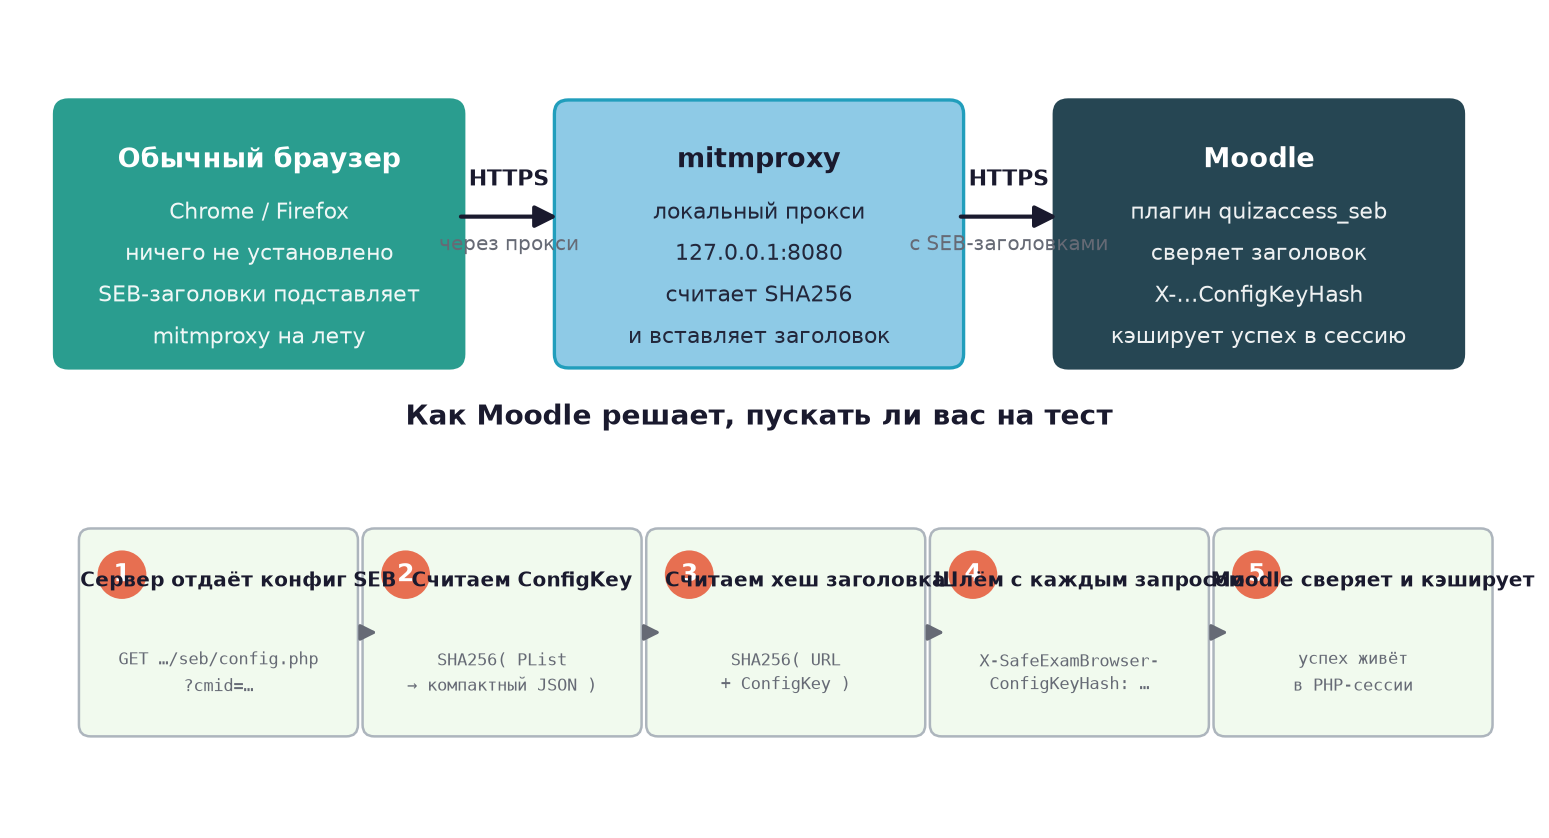
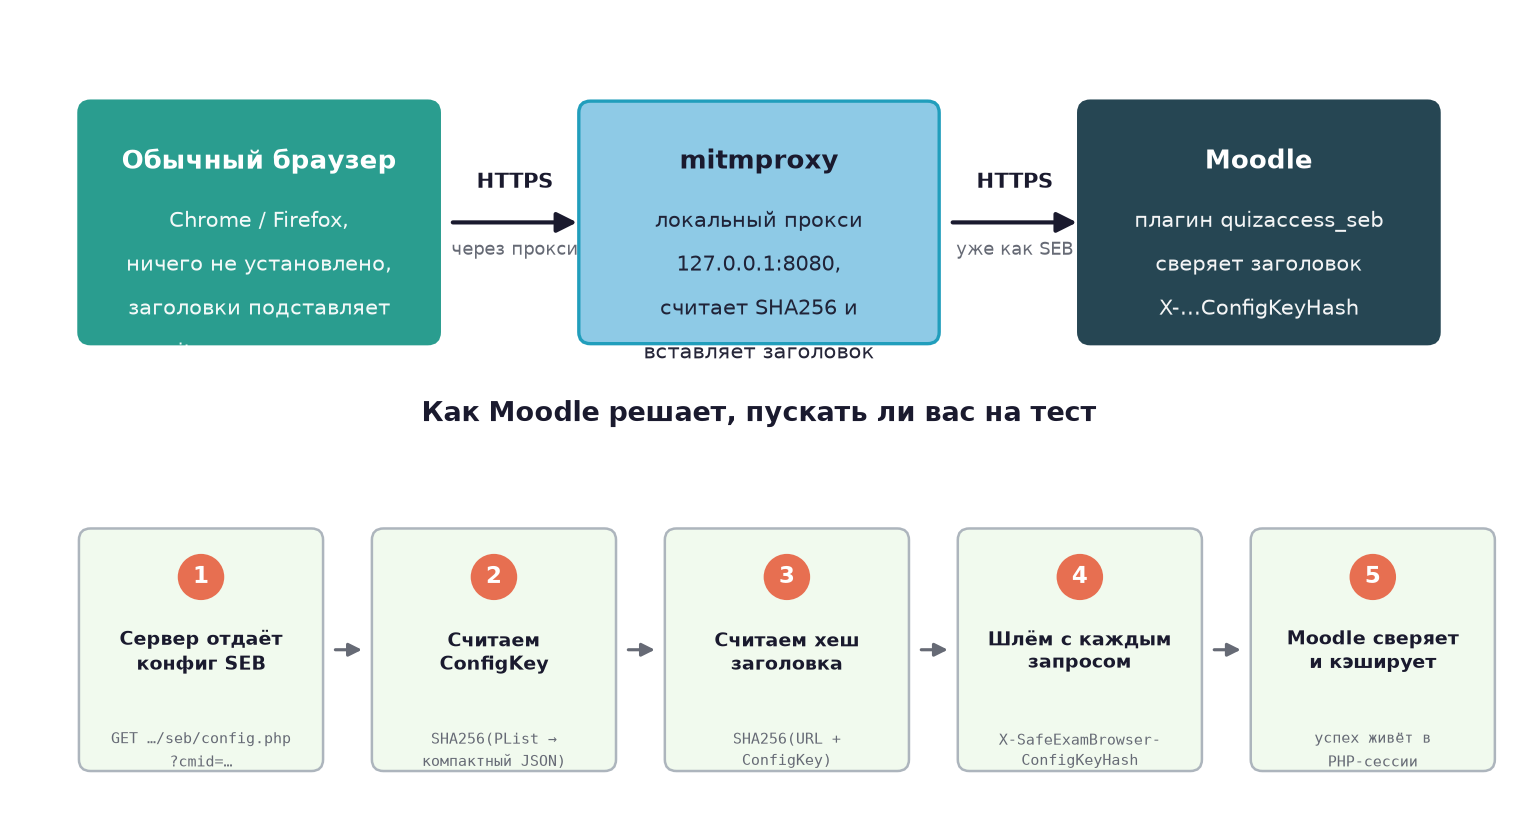
docs: redraw habr figures (fix overlapping text and arrows)

diff --git a/docs/habr/fig1_protocol.py b/docs/habr/fig1_protocol.py
@@ -1,7 +1,7 @@
 import matplotlib
 matplotlib.use("Agg")
 import matplotlib.pyplot as plt
-from matplotlib.patches import FancyBboxPatch, FancyArrowPatch
+from matplotlib.patches import FancyBboxPatch, FancyArrowPatch, Circle
 
 W, H = 12.8, 7.0
 fig, ax = plt.subplots(figsize=(W, H), dpi=150)
@@ -9,66 +9,63 @@ ax.set_xlim(0, 128)
 ax.set_ylim(0, 70)
 ax.axis("off")
 
-INK = "#1a1a2e"
-MUT = "#666a75"
-SEB = "#e76f51"
-MOODLE = "#264653"
-CLIENT = "#2a9d8f"
-BG = "#ffffff"
+INK, MUT = "#1a1a2e", "#666a75"
+SEB, CLIENT, BG = "#e76f51", "#2a9d8f", "#ffffff"
 
-def box(x, y, w, h, fc, ec, title, lines=(), fs=11.5, tfs=13, tc="white"):
+
+def box(x, y, w, h, fc, ec, tc, title, lines, fs=10, tfs=12.5):
     ax.add_patch(FancyBboxPatch((x, y), w, h,
-                 boxstyle="round,pad=0.6,rounding_size=1.2",
+                 boxstyle="round,pad=0.5,rounding_size=1.0",
                  fc=fc, ec=ec, lw=1.6))
-    ax.text(x + w/2, y + h - 3.4, title, ha="center", va="top",
+    ax.text(x + w/2, y + h - 3.6, title, ha="center", va="top",
             fontsize=tfs, fontweight="bold", color=tc)
     for i, ln in enumerate(lines):
-        ax.text(x + w/2, y + h - 8.2 - i*3.6, ln, ha="center", va="top",
-                fontsize=fs, color=tc, alpha=0.93)
+        ax.text(x + w/2, y + h - 9.0 - i*3.8, ln, ha="center", va="top",
+                fontsize=fs, color=tc, alpha=0.95)
 
-box(4, 40, 34, 22, CLIENT, CLIENT, "Обычный браузер",
-    ("Chrome / Firefox", "ничего не установлено", "SEB-заголовки подставляет", "mitmproxy на лету"), fs=10.5)
-box(47, 40, 34, 22, "#8ecae6", "#219ebc", "mitmproxy",
-    ("локальный прокси", "127.0.0.1:8080", "считает SHA256", "и вставляет заголовок"), fs=10.5, tc=INK)
-box(90, 40, 34, 22, MOODLE, MOODLE, "Moodle",
-    ("плагин quizaccess_seb", "сверяет заголовок", "X-…ConfigKeyHash", "кэширует успех в сессию"), fs=10.5)
 
-for x0, x1, label, sub in [
-    (38, 47, "HTTPS", "через прокси"),
-    (81, 90, "HTTPS", "с SEB-заголовками"),
-]:
-    ax.add_patch(FancyArrowPatch((x0, 52.5), (x1, 52.5),
-                 arrowstyle="-|>", mutation_scale=22, lw=2, color=INK))
-    ax.text((x0+x1)/2, 55.2, label, ha="center", fontsize=10.5, fontweight="bold", color=INK)
-    ax.text((x0+x1)/2, 49.6, sub, ha="center", fontsize=9.5, color=MUT)
+# ---- three actors: w=30, gaps ~13 units ----
+box(6, 42, 30, 20, CLIENT, CLIENT, "white", "Обычный браузер",
+    ("Chrome / Firefox,", "ничего не установлено,", "заголовки подставляет", "mitmproxy на лету"))
+box(49, 42, 30, 20, "#8ecae6", "#219ebc", INK, "mitmproxy",
+    ("локальный прокси", "127.0.0.1:8080,", "считает SHA256 и", "вставляет заголовок"))
+box(92, 42, 30, 20, "#264653", "#264653", "white", "Moodle",
+    ("плагин quizaccess_seb", "сверяет заголовок", "X-…ConfigKeyHash", "и кэширует успех в сессию"))
 
-ax.text(64, 34.5, "Как Moodle решает, пускать ли вас на тест", ha="center",
-        fontsize=13.5, fontweight="bold", color=INK)
+for x0, x1, label, sub in [(37.3, 48.7, "HTTPS", "через прокси"),
+                           (80.3, 91.7, "HTTPS", "уже как SEB")]:
+    ax.add_patch(FancyArrowPatch((x0, 52), (x1, 52),
+                 arrowstyle="-|>", mutation_scale=20, lw=2, color=INK))
+    ax.text((x0+x1)/2, 55.0, label, ha="center", fontsize=10, fontweight="bold", color=INK)
+    ax.text((x0+x1)/2, 49.2, sub, ha="center", fontsize=8.5, color=MUT)
 
+ax.text(64, 34.8, "Как Moodle решает, пускать ли вас на тест", ha="center",
+        fontsize=13, fontweight="bold", color=INK)
+
+# ---- five steps: w=20, spacing 25.2, clearance 4.2 ----
 steps = [
-    ("1", "Сервер отдаёт конфиг SEB", "GET …/seb/config.php\n?cmid=…"),
-    ("2", "Считаем ConfigKey", "SHA256( PList\n→ компактный JSON )"),
-    ("3", "Считаем хеш заголовка", "SHA256( URL\n+ ConfigKey )"),
-    ("4", "Шлём с каждым запросом", "X-SafeExamBrowser-\nConfigKeyHash: …"),
-    ("5", "Moodle сверяет и кэширует", "успех живёт\nв PHP-сессии"),
+    ("1", "Сервер отдаёт\nконфиг SEB", "GET …/seb/config.php\n?cmid=…"),
+    ("2", "Считаем\nConfigKey", "SHA256(PList →\nкомпактный JSON)"),
+    ("3", "Считаем хеш\nзаголовка", "SHA256(URL +\nConfigKey)"),
+    ("4", "Шлём с каждым\nзапросом", "X-SafeExamBrowser-\nConfigKeyHash"),
+    ("5", "Moodle сверяет\nи кэширует", "успех живёт в\nPHP-сессии"),
 ]
 x = 6
 for n, t, s in steps:
-    ax.add_patch(FancyBboxPatch((x, 8), 23, 17,
+    ax.add_patch(FancyBboxPatch((x, 5), 20, 20,
                  boxstyle="round,pad=0.5,rounding_size=1.0",
                  fc="#f1faee", ec="#adb5bd", lw=1.2))
-    ax.add_patch(plt.Circle((x+3.2, 21.5), 2.1, fc=SEB, ec="none"))
-    ax.text(x+3.2, 21.5, n, ha="center", va="center", fontsize=12,
+    ax.add_patch(Circle((x+10, 21.3), 2.0, fc=SEB, ec="none"))
+    ax.text(x+10, 21.3, n, ha="center", va="center", fontsize=11,
             fontweight="bold", color="white")
-    ax.text(x+13.2, 21.8, t, ha="center", va="top", fontsize=9.6,
-            fontweight="bold", color=INK)
-    ax.text(x+11.5, 15.2, s, ha="center", va="top", fontsize=8.2,
+    ax.text(x+10, 17.0, t, ha="center", va="top", fontsize=9,
+            fontweight="bold", color=INK, linespacing=1.35)
+    ax.text(x+10, 8.2, s, ha="center", va="top", fontsize=7.2,
             color=MUT, family="monospace", linespacing=1.45)
-    x += 24.4
-
-for x0 in [29.4, 53.8, 78.2, 102.6]:
-    ax.add_patch(FancyArrowPatch((x0+0.3, 16.5), (x0+2.1, 16.5),
-                 arrowstyle="-|>", mutation_scale=16, lw=1.6, color=MUT))
+    if n != "5":
+        ax.add_patch(FancyArrowPatch((x+21.2, 15), (x+24.2, 15),
+                     arrowstyle="-|>", mutation_scale=13, lw=1.5, color=MUT))
+    x += 25.2
 
 fig.savefig("/Users/alexander/moodle-seb-bypass/docs/habr/fig1_protocol.png",
             bbox_inches="tight", facecolor=BG)

diff --git a/docs/habr/fig3_cookie.py b/docs/habr/fig3_cookie.py
@@ -1,77 +1,72 @@
 import matplotlib
 matplotlib.use("Agg")
 import matplotlib.pyplot as plt
-from matplotlib.patches import FancyBboxPatch, FancyArrowPatch, Rectangle
+from matplotlib.patches import FancyBboxPatch, FancyArrowPatch, Rectangle, Circle
 
-W, H = 11.0, 6.4
+W, H = 11.6, 6.2
 fig, ax = plt.subplots(figsize=(W, H), dpi=150)
-ax.set_xlim(0, 110)
-ax.set_ylim(0, 64)
+ax.set_xlim(0, 116)
+ax.set_ylim(0, 62)
 ax.axis("off")
 INK, MUT, ACC, BG = "#1a1a2e", "#666a75", "#e76f51", "#ffffff"
 
-# --- browser window mock ---
-ax.add_patch(FancyBboxPatch((4, 6), 62, 52,
+ax.text(58, 58.5, "Всё, что нужно от браузера: одна cookie и DevTools",
+        ha="center", fontsize=13.5, fontweight="bold", color=INK)
+
+# ---------- browser window ----------
+bx, by, bw, bh = 5, 4, 62, 50
+ax.add_patch(FancyBboxPatch((bx, by), bw, bh,
              boxstyle="round,pad=0.6,rounding_size=1.5",
              fc="#fbfbfd", ec="#c8ccd4", lw=1.5))
-# traffic lights
 for i, c in enumerate(["#ff5f57", "#febc2e", "#28c840"]):
-    ax.add_patch(plt.Circle((10 + i*4.2, 53.5), 1.5, fc=c, ec="none"))
-ax.add_patch(FancyBboxPatch((26, 51), 36, 5,
-             boxstyle="round,pad=0.3,rounding_size=2.5",
+    ax.add_patch(Circle((bx + 5 + i*4.0, by + bh - 3.6), 1.4, fc=c, ec="none"))
+ax.add_patch(FancyBboxPatch((bx + 20, by + bh - 6.2), bw - 26, 5.0,
+             boxstyle="round,pad=0.3,rounding_size=2.4",
              fc="#eef0f4", ec="none"))
-ax.text(44, 53.5, "moodle.example.org  •  devtools", ha="center", va="center",
-        fontsize=9, color=MUT, family="monospace")
+ax.text(bx + 20 + (bw - 26)/2, by + bh - 3.7, "moodle.example.org",
+        ha="center", va="center", fontsize=8.5, color=MUT, family="monospace")
 
-# devtools split
-ax.add_patch(Rectangle((7, 9), 56, 38, fc="white", ec="#d8dce2", lw=1))
-ax.add_patch(Rectangle((7, 38), 56, 9, fc="#e8f4f8", ec="#d8dce2", lw=1))
-ax.text(10, 42.5, "F12 → Application → Cookies → https://moodle.example.org",
-        fontsize=9.5, color=INK, va="center")
+# devtools panel
+dx, dy, dw, dh = bx + 3, by + 4, bw - 6, bh - 14
+ax.add_patch(Rectangle((dx, dy), dw, dh, fc="white", ec="#d8dce2", lw=1))
+# tab bar
+ax.add_patch(Rectangle((dx, dy + dh - 5), dw, 5, fc="#e8f4f8", ec="#d8dce2", lw=1))
+ax.text(dx + 2.5, dy + dh - 2.5, "Application ▸ Cookies ▸ https://moodle.example.org",
+        fontsize=8.3, color=INK, va="center")
 
-# cookie table
-ax.add_patch(Rectangle((7, 9), 56, 29, fc="white", ec="none"))
-hdr = ["Name", "Value", ""]
-rows = [
-    ("MoodleSession", "f8hkq3u7…", True),
-    ("MoodleBlast",    "——",      False),
-]
-y = 34.5
-ax.text(11, y, "Name", fontsize=9, fontweight="bold", color=MUT)
-ax.text(33, y, "Value", fontsize=9, fontweight="bold", color=MUT)
-y -= 4.5
-for name, val, hot in rows:
-    if hot:
-        ax.add_patch(Rectangle((8, y - 3.2), 54, 4.4, fc="#fff3e9", ec="none"))
-    ax.text(11, y, name, fontsize=9.5, family="monospace",
-            color=ACC if hot else INK, fontweight="bold" if hot else "normal")
-    ax.text(33, y, val, fontsize=9.5, family="monospace",
-            color=ACC if hot else MUT)
-    y -= 5.2
+# table header
+ty = dy + dh - 9.5
+ax.text(dx + 3, ty, "Name", fontsize=8.5, fontweight="bold", color=MUT)
+ax.text(dx + 22, ty, "Value", fontsize=8.5, fontweight="bold", color=MUT)
+ax.add_patch(Rectangle((dx + 1.5, ty - 3.6), dw - 3, 4.8, fc="#fff3e9", ec="none"))
+ax.text(dx + 3, ty - 1.3, "MoodleSession", fontsize=9, family="monospace",
+        color=ACC, fontweight="bold")
+ax.text(dx + 22, ty - 1.3, "f8hkq3u7v2…", fontsize=9, family="monospace", color=ACC)
+ax.text(dx + 3, ty - 7.0, "MoodleBlast", fontsize=9, family="monospace", color=MUT)
+ax.text(dx + 22, ty - 7.0, "—", fontsize=9, family="monospace", color=MUT)
 
-ax.add_patch(FancyArrowPatch((26.5, 26.8), (30, 26.8), arrowstyle="-",
-             mutation_scale=0, lw=0))  # spacer no-op
-
-# arrow from cookie row to terminal
-ax.add_patch(FancyArrowPatch((63.5, 27.5), (78, 20), arrowstyle="-|>",
-             mutation_scale=20, lw=2.2, color=ACC,
-             connectionstyle="arc3,rad=-0.25"))
-ax.text(71.5, 29.5, "копируем значение\nMoodleSession", fontsize=10,
-        color=ACC, ha="center", fontweight="bold")
-
-# terminal mock
-ax.add_patch(FancyBboxPatch((70, 8), 36, 16,
+# ---------- terminal ----------
+tx, ty2, tw, th = 82, 20, 30, 20
+ax.add_patch(FancyBboxPatch((tx, ty2), tw, th,
              boxstyle="round,pad=0.6,rounding_size=1.2",
              fc="#10141f", ec="none"))
-ax.text(73.5, 20.5, "$ export MOODLE_COOKIE=\"f8hkq3u7…\"",
-        fontsize=9, family="monospace", color="#7ee787", va="center")
-ax.text(73.5, 15.5, "$ seb-bypass config-key --url … --cmid 42",
-        fontsize=9, family="monospace", color="#79c0ff", va="center")
-ax.text(73.5, 11.0, "ConfigKey: 9a78a7ab9c92…", fontsize=9,
-        family="monospace", color="#e6edf3", va="center")
+ax.text(tx + 2.5, ty2 + th - 4.0, "$ export MOODLE_COOKIE=\\",
+        fontsize=8.3, family="monospace", color="#7ee787", va="center")
+ax.text(tx + 5.0, ty2 + th - 8.0, '"f8hkq3u7v2…"', fontsize=8.3,
+        family="monospace", color="#7ee787", va="center")
+ax.text(tx + 2.5, ty2 + th - 12.5, "$ seb-bypass config-key \\",
+        fontsize=8.3, family="monospace", color="#79c0ff", va="center")
+ax.text(tx + 5.0, ty2 + th - 16.5, "--url … --cmid 42",
+        fontsize=8.3, family="monospace", color="#79c0ff", va="center")
 
-ax.text(55, 61.5, "Всё, что нужно от браузера: одна cookie и DevTools",
-        ha="center", fontsize=13, fontweight="bold", color=INK)
+# arrow cookie -> terminal
+ax.add_patch(FancyArrowPatch((bx + bw + 1, 30), (tx - 1.5, 30),
+             arrowstyle="-|>", mutation_scale=20, lw=2.2, color=ACC))
+ax.text((bx + bw + tx)/2, 33.6, "копируем значение",
+        fontsize=9.5, color=ACC, ha="center", fontweight="bold")
+ax.text((bx + bw + tx)/2, 25.8, "MoodleSession",
+        fontsize=9.5, color=ACC, ha="center", fontweight="bold",
+        family="monospace")
 
 fig.savefig("/Users/alexander/moodle-seb-bypass/docs/habr/fig3_cookie.png",
             bbox_inches="tight", facecolor=BG)

diff --git a/docs/habr/fig2_configkey.py b/docs/habr/fig2_configkey.py
@@ -3,50 +3,79 @@ matplotlib.use("Agg")
 import matplotlib.pyplot as plt
 from matplotlib.patches import FancyBboxPatch, FancyArrowPatch
 
-W, H = 12.8, 6.2
+W, H = 13.2, 6.8
 fig, ax = plt.subplots(figsize=(W, H), dpi=150)
-ax.set_xlim(0, 128)
-ax.set_ylim(0, 62)
+ax.set_xlim(0, 132)
+ax.set_ylim(0, 68)
 ax.axis("off")
 
-INK = "#1a1a2e"
-MUT = "#666a75"
-ACC = "#e76f51"
-BG = "#ffffff"
+INK, MUT, ACC, BG = "#1a1a2e", "#666a75", "#e76f51", "#ffffff"
 
-stages = [
-    ("XML PList", '<plist>\n  <dict>\n    <key>allowWlan</key>\n    <true/>\n    ...\n    <key>originatorVersion</key>\n    <string>SEB_3.7.0</string>', "#f1faee", "#adb5bd", INK),
-    ("Шаг 1. Убрать originatorVersion", 'SEB кладёт в конфиг свою версию,\nно в хеш она не входит —\nплагин её выкидывает перед подсчётом', "#fff3e9", ACC, INK),
-    ("Шаг 2. Отсортировать ключи", 'рекурсивно, каждый словарь,\nбез учёта регистра (casefold),\nпорядок не должен зависеть ни от чего', "#fff3e9", ACC, INK),
-    ("Шаг 3. Сериализовать в JSON", 'без пробелов, без \\u-экранирования:\n{"allowWlan":true,...}\nодна строка, компактно', "#fff3e9", ACC, INK),
-    ("ConfigKey", 'SHA256(json)\n= 9a78a7ab9c92…\n64 hex-символа — это и есть "паспорт" квиза', "#264653", "#264653", "white"),
-]
-
-bw, bh, gap = 22.4, 34, 2.5
-x = 3
-for i, (title, body, fc, ec, tc) in enumerate(stages):
-    ax.add_patch(FancyBboxPatch((x, 14), bw, bh,
-                 boxstyle="round,pad=0.5,rounding_size=1.0",
-                 fc=fc, ec=ec, lw=1.6))
-    ax.text(x + bw/2, 14 + bh - 2.2, title, ha="center", va="top",
-            fontsize=10.6, fontweight="bold", color=tc)
-    ax.text(x + bw/2, 14 + bh - 7.5, body, ha="center", va="top",
-            fontsize=8.4, color=tc, family="monospace", linespacing=1.5)
-    if i < len(stages) - 1:
-        ax.add_patch(FancyArrowPatch((x + bw + 0.4, 31), (x + bw + gap - 0.4, 31),
-                     arrowstyle="-|>", mutation_scale=18, lw=2, color=MUT))
-    x += bw + gap
-
-ax.text(64, 56, "От XML-конфига до ConfigKey: четыре шага, которые нельзя перепутать",
-        ha="center", fontsize=13.5, fontweight="bold", color=INK)
-ax.text(64, 51.5, "если хоть один шаг отличается — Moodle ответит «не тот браузер»",
+ax.text(66, 63, "От XML-конфига до ConfigKey: четыре шага", ha="center",
+        fontsize=14, fontweight="bold", color=INK)
+ax.text(66, 58.5, "если хоть один шаг сделать иначе, Moodle ответит «не тот браузер»",
         ha="center", fontsize=10.5, color=MUT)
 
-# bottom annotation: what the header hash is
-ax.add_patch(FancyBboxPatch((14, 2.5), 100, 7.5,
+stages = [
+    ("XML PList", [
+        "<plist>",
+        "  <dict>",
+        "    <key>allowWlan</key>",
+        "    <true/>",
+        "    …",
+        "    <key>originatorVersion</key>",
+        "    <string>SEB_3.7.0</string>",
+    ], "#f1faee", "#adb5bd", INK),
+    ("Убрать originatorVersion", [
+        "SEB вписывает в конфиг",
+        "свою версию, но в хеш",
+        "она не входит:",
+        "плагин выбрасывает",
+        "ключ перед подсчётом",
+    ], "#fff3e9", ACC, INK),
+    ("Отсортировать ключи", [
+        "рекурсивно, каждый",
+        "словарь, без учёта",
+        "регистра (casefold):",
+        "порядок ключей не",
+        "должен влиять на хеш",
+    ], "#fff3e9", ACC, INK),
+    ("Сериализовать в JSON", [
+        "компактно, без пробелов",
+        'и \\u-экранирования:',
+        '{"allowWlan":true,…}',
+        "одна строка",
+    ], "#fff3e9", ACC, INK),
+    ("ConfigKey", [
+        "SHA256(json)",
+        "= 9a78a7ab9c92…",
+        "64 hex-символа —",
+        "«паспорт» квиза",
+    ], "#264653", "#264653", "white"),
+]
+
+bw, bh, gap = 22.0, 34, 4.0
+x = 5
+for i, (title, lines, fc, ec, tc) in enumerate(stages):
+    ax.add_patch(FancyBboxPatch((x, 12), bw, bh,
+                 boxstyle="round,pad=0.5,rounding_size=1.0",
+                 fc=fc, ec=ec, lw=1.6))
+    ax.text(x + bw/2, 12 + bh - 3.0, title, ha="center", va="top",
+            fontsize=10.2, fontweight="bold", color=tc)
+    body = "\n".join(lines)
+    fam = "monospace" if i == 0 else None
+    ax.text(x + bw/2, 12 + bh - 8.0, body, ha="center", va="top",
+            fontsize=7.6 if i == 0 else 8.2, color=tc,
+            family=fam, linespacing=1.65)
+    if i < len(stages) - 1:
+        ax.add_patch(FancyArrowPatch((x + bw + 0.8, 29), (x + bw + gap - 0.8, 29),
+                     arrowstyle="-|>", mutation_scale=17, lw=2, color=MUT))
+    x += bw + gap
+
+ax.add_patch(FancyBboxPatch((16, 2), 100, 6.5,
              boxstyle="round,pad=0.4,rounding_size=0.8",
              fc="#eaf4f4", ec="#2a9d8f", lw=1.4))
-ax.text(64, 6.2, "А в заголовок идёт ещё один хеш:  X-SafeExamBrowser-ConfigKeyHash = SHA256( URL_без_query + ConfigKey )",
+ax.text(66, 5.2, "в заголовок идёт ещё один хеш:   SHA256( URL_без_query + ConfigKey )",
         ha="center", fontsize=10.5, family="monospace", color=INK)
 
 fig.savefig("/Users/alexander/moodle-seb-bypass/docs/habr/fig2_configkey.png",
